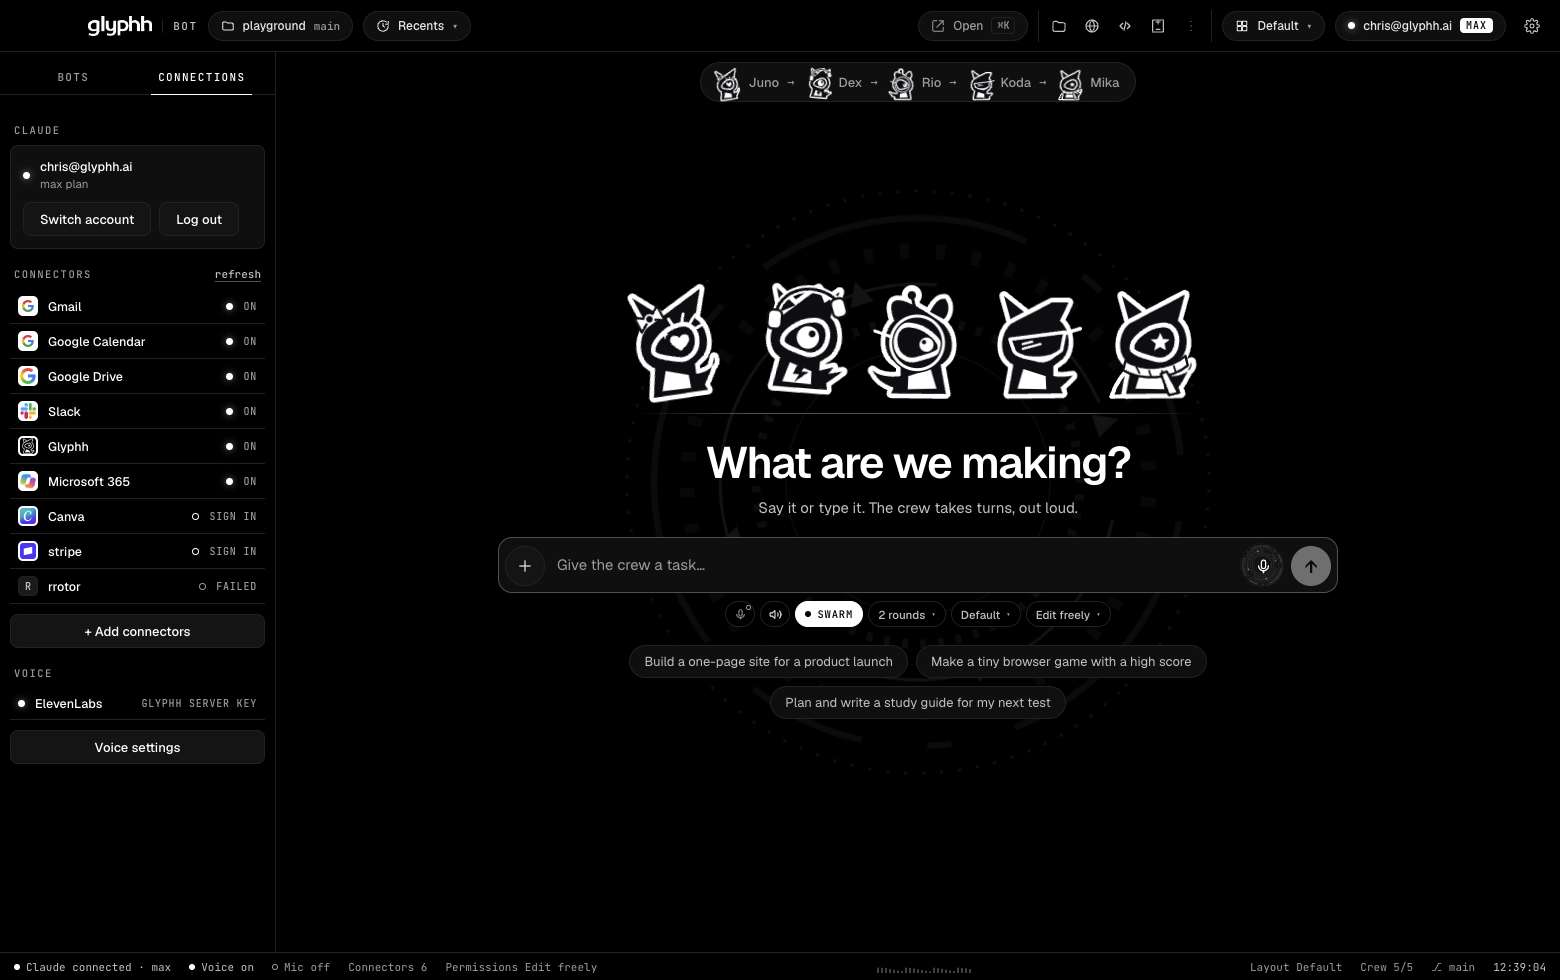
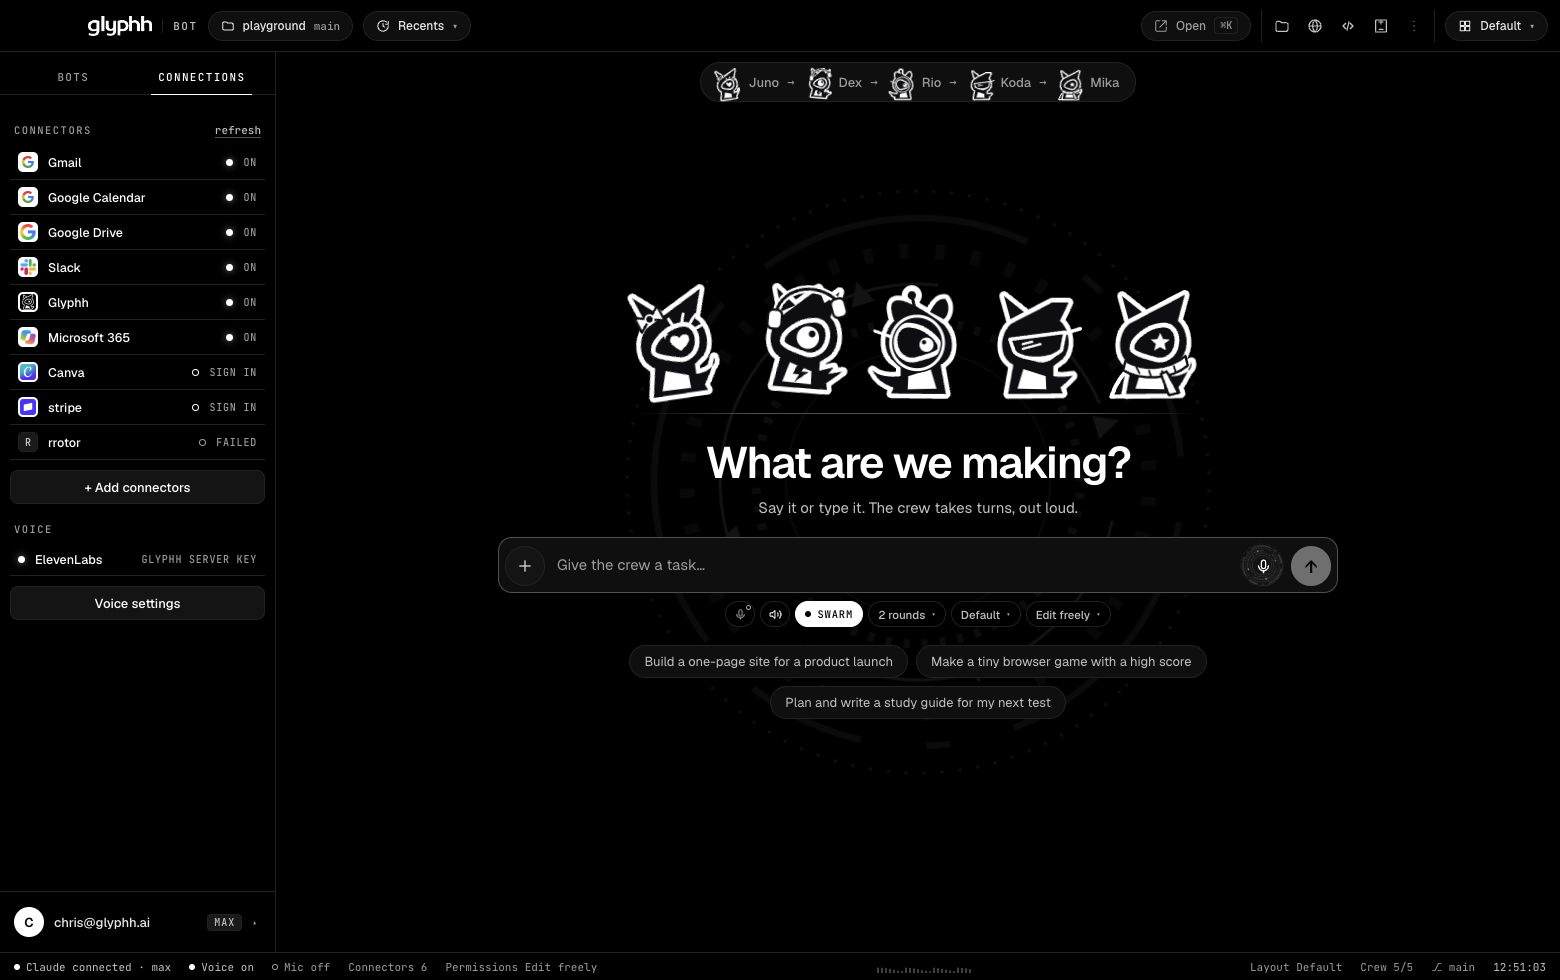
Glyphh Bot: account menu at the foot of the left rail
The top bar loses the account pill and the settings gear, and the
Connections tab loses the account card. A fixed account button at the
bottom of the left rail opens upward: the account (email, plan, org),
Settings, Switch account, and Log out through the shared confirm. It
shrinks to the avatar when the rail is narrow.

diff --git a/src/renderer/src/Left.tsx b/src/renderer/src/Left.tsx
@@ -2,7 +2,8 @@ import { useEffect, useState } from 'react'
 import { connectorLabel } from '../../shared/connectors'
 import { botPanel } from '../../shared/layouts'
 import { Cat } from './Cat'
-import { api, browse, openPanel, refreshProbe, set, toast, useStore } from './store'
+import { Icon, ICON } from './Menu'
+import { api, browse, confirmAsk, openPanel, refreshProbe, set, toast, useStore } from './store'
 
 const CONNECTORS_URL = 'https://claude.ai/settings/connectors'
 
@@ -133,43 +134,17 @@ function Connections(): JSX.Element {
 
   return (
     <div className="rail-scroll">
-      <div className="rail-label">Claude</div>
-      <div className="card">
-        {auth.loggedIn ? (
-          <>
-            <div className="acct">
-              <span className="dot ok" />
-              <div>
-                <b>{auth.email}</b>
-                <small>
-                  {auth.subscriptionType ? `${auth.subscriptionType} plan` : auth.authMethod}
-                  {auth.orgName ? ` · ${auth.orgName}` : ''}
-                </small>
-              </div>
-            </div>
-            <div className="row">
-              <button className="btn" onClick={login} disabled={loggingIn}>
-                Switch account
-              </button>
-              <button
-                className="btn"
-                onClick={async () => {
-                  set({ auth: await api.auth.logout(), probe: null })
-                }}
-              >
-                Log out
-              </button>
-            </div>
-          </>
-        ) : (
-          <>
+      {!auth.loggedIn && (
+        <>
+          <div className="rail-label">Claude</div>
+          <div className="card">
             <p className="dim">Not connected. Glyphh Bot uses your own Claude login.</p>
             <button className="btn primary" onClick={login} disabled={loggingIn}>
               {loggingIn ? 'Waiting for Claude…' : 'Connect to Claude'}
             </button>
-          </>
-        )}
-      </div>
+          </div>
+        </>
+      )}
 
       <div className="rail-label">
         Connectors
@@ -224,6 +199,83 @@ export function Left(): JSX.Element {
         </button>
       </div>
       {tab === 'bots' ? <Bots /> : <Connections />}
+      <Account />
     </aside>
+  )
+}
+
+/** The account button at the foot of the rail: its menu opens upward with the account, Settings, Switch account and Log out. */
+function Account(): JSX.Element {
+  const auth = useStore((s) => s.auth)
+  const loggingIn = useStore((s) => s.loggingIn)
+  const [open, setOpen] = useState(false)
+  useEffect(() => {
+    if (!open) return
+    const onKey = (e: KeyboardEvent): void => {
+      if (e.key === 'Escape') setOpen(false)
+    }
+    window.addEventListener('keydown', onKey)
+    return () => window.removeEventListener('keydown', onKey)
+  }, [open])
+  const name = auth.email ?? 'Not connected'
+  const initial = (auth.email ?? '?').charAt(0).toUpperCase()
+  const login = (): void => {
+    setOpen(false)
+    set({ loggingIn: true, authLog: [] })
+    void api.auth.login()
+  }
+  return (
+    <div className="account">
+      {open && <div className="acc-veil" onMouseDown={() => setOpen(false)} />}
+      {open && (
+        <div className="acc-menu" role="menu">
+          <div className="acc-who">
+            <span className="acc-ava big">{initial}</span>
+            <div>
+              <b>{name}</b>
+              <small>
+                {auth.loggedIn ? (auth.subscriptionType ? `${auth.subscriptionType} plan` : auth.authMethod ?? 'Claude') : 'Glyphh Bot uses your own Claude login'}
+                {auth.orgName ? ` · ${auth.orgName}` : ''}
+              </small>
+            </div>
+          </div>
+          <hr />
+          <button
+            onClick={() => {
+              setOpen(false)
+              set({ modal: { kind: 'settings' } })
+            }}
+          >
+            <Icon d={ICON.settings} size={15} /> Settings
+          </button>
+          <button onClick={login} disabled={loggingIn}>
+            <Icon d={ICON.refresh} size={15} /> {auth.loggedIn ? 'Switch account' : 'Connect to Claude'}
+          </button>
+          {auth.loggedIn && (
+            <button
+              className="danger"
+              onClick={async () => {
+                setOpen(false)
+                const ok = await confirmAsk({
+                  title: 'Log out of Claude?',
+                  body: `Glyphh Bot stops using ${name} until you connect again.`,
+                  yes: 'Log out',
+                  danger: true
+                })
+                if (ok) set({ auth: await api.auth.logout(), probe: null })
+              }}
+            >
+              <Icon d="M9 21H5a2 2 0 0 1-2-2V5a2 2 0 0 1 2-2h4M16 17l5-5-5-5M21 12H9" size={15} /> Log out
+            </button>
+          )}
+        </div>
+      )}
+      <button className={`acc-btn ${open ? 'on' : ''}`} title={name} onClick={() => setOpen(!open)}>
+        <span className="acc-ava">{initial}</span>
+        <span className="acc-name">{name}</span>
+        {auth.subscriptionType && <span className="plan">{auth.subscriptionType}</span>}
+        <span className="acc-caret dim">▴</span>
+      </button>
+    </div>
   )
 }

diff --git a/src/renderer/src/styles.css b/src/renderer/src/styles.css
@@ -55,9 +55,27 @@ kbd { font: 500 10px var(--mono); color: var(--text-4); border: 1px solid var(--
 .chip .plan { font: 500 10px var(--mono); text-transform: uppercase; letter-spacing: 0.1em; padding: 1px 6px; border-radius: 4px; background: var(--text); color: #000; }
 .chip.search { color: var(--text-4); }
 .chip.on { border-color: var(--rail); color: #fff; background: var(--surface-2); }
-.acctchip { max-width: 260px; }
-.acctchip .em { overflow: hidden; text-overflow: ellipsis; white-space: nowrap; min-width: 0; }
-@media (max-width: 1250px) { .acctchip .em, .acctchip .plan { display: none; } .acctchip { padding: 0 10px; } }
+.rail.left { container-type: inline-size; }
+.account { flex: none; position: relative; padding: 8px; border-top: 1px solid var(--hair); }
+.acc-btn { width: 100%; display: flex; align-items: center; gap: 10px; height: 44px; padding: 0 10px 0 6px; border-radius: var(--radius); text-align: left; color: var(--text-2); }
+.acc-btn:hover, .acc-btn.on { background: var(--surface-2); color: #fff; }
+.acc-ava { flex: none; width: 30px; height: 30px; border-radius: 50%; display: grid; place-items: center; background: #fff; color: #000; font: 600 13px var(--sans); }
+.acc-ava.big { width: 36px; height: 36px; font-size: 15px; }
+.acc-name { flex: 1; min-width: 0; font: 500 13px var(--sans); overflow: hidden; text-overflow: ellipsis; white-space: nowrap; }
+.acc-btn .plan { font: 500 10px var(--mono); text-transform: uppercase; letter-spacing: 0.1em; padding: 1px 6px; border-radius: 4px; background: var(--surface-3); color: var(--text-3); border: 1px solid var(--hair); flex: none; }
+.acc-caret { font-size: 10px; flex: none; }
+.acc-veil { position: fixed; inset: 0; z-index: 44; }
+.acc-menu { position: absolute; left: 8px; bottom: calc(100% + 4px); z-index: 45; width: 260px; padding: 6px; border: 1px solid var(--hair); border-radius: 12px; background: var(--surface); box-shadow: 0 -20px 60px rgba(0, 0, 0, 0.8); display: flex; flex-direction: column; gap: 1px; animation: rise 0.15s; }
+.acc-menu hr { border: 0; border-top: 1px solid var(--hair); margin: 5px 0; }
+.acc-who { display: flex; align-items: center; gap: 10px; padding: 8px 8px 4px; min-width: 0; }
+.acc-who > div { min-width: 0; }
+.acc-who b, .acc-who small { display: block; overflow: hidden; text-overflow: ellipsis; white-space: nowrap; }
+.acc-who b { font: 600 13px var(--sans); color: #fff; }
+.acc-who small { font: 400 11.5px var(--sans); color: var(--text-4); }
+.acc-menu button { display: flex; align-items: center; gap: 10px; text-align: left; padding: 8px 10px; border-radius: 6px; font: 400 13px var(--sans); color: var(--text-2); }
+.acc-menu button:hover:not(:disabled) { background: var(--surface-3); color: #fff; }
+.acc-menu button.danger { color: #fff; }
+@container (max-width: 120px) { .acc-name, .acc-btn .plan, .acc-caret { display: none; } .acc-btn { justify-content: center; padding: 0; } }
 .pbtns { display: flex; align-items: center; gap: 1px; padding: 0 4px; border-left: 1px solid var(--hair); border-right: 1px solid var(--hair); }
 .icon.on { color: #000; background: #fff; }
 .icon.on:hover { color: #000; background: var(--text-2); }

diff --git a/src/renderer/src/App.tsx b/src/renderer/src/App.tsx
@@ -305,15 +305,6 @@ export function App(): JSX.Element {
         </button>
         <PanelButtons />
         <LayoutMenu />
-        {auth.loggedIn && (
-          <button className="chip nodrag acctchip" title={auth.email} onClick={() => set({ leftTab: 'connections' })}>
-            <span className="dot ok" /> <span className="em">{auth.email}</span>
-            {auth.subscriptionType && <span className="plan">{auth.subscriptionType}</span>}
-          </button>
-        )}
-        <button className="icon nodrag" title="Settings" onClick={() => set({ modal: { kind: 'settings' } })}>
-          <Icon d={ICON.settings} size={16} />
-        </button>
       </header>
       <main className="grid">
         <Left />
